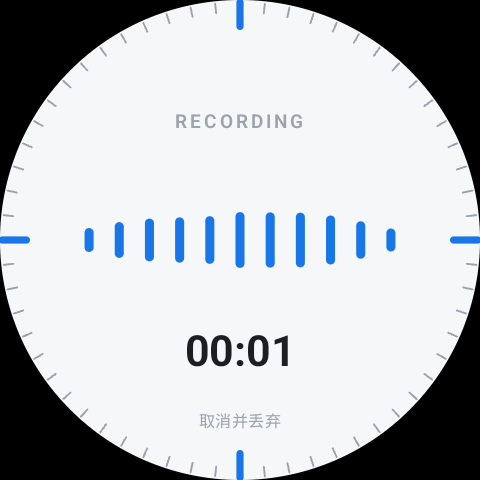
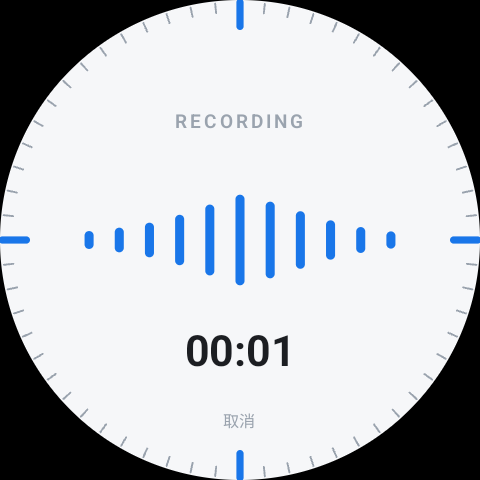
docs(watch): refresh 0.2.0-dev.3-final freeze (settings entry, cancel label, new hash)
UI gained a low-key Settings entry under the mic (first-time config) and the
cancel action is now '取消'. Refresh the freeze: new APK SHA-256
D90B56957BAE546DA94520E0343BF97B349890AD8E36F58258343AAF47535DC6 and the
regenerated ready.png / recording.png.

diff --git a/design/watch-ui/0.2.0-dev.3-final/README.md b/design/watch-ui/0.2.0-dev.3-final/README.md
@@ -7,12 +7,13 @@
 
 - 版本：`0.2.0-dev.3-final`（versionCode 3）
 - 提交基线：
-  - `41a79d4` wip(watch): preserve white dial UI experiment
+  - `714ac2f` feat(watch): restore low-key Settings entry + shorten Cancel label
   - `d874395` test: harden watch transport status and startup order
-- 构建时间：`2026-08-31 16:35:42`
+  - `41a79d4` wip(watch): preserve white dial UI experiment
+- 构建时间：`2026-08-31 22:43:15`
 - APK：`watch/app/build/outputs/apk/debug/app-debug.apk`
 - **APK SHA-256**：
[2 lines of base64/hex data omitted]
 
 ## 冻结的候选特性
 
@@ -20,8 +21,8 @@
   - 白色表盘底 `#F7F8FA`；60 根**灰色分钟刻度**（`#9AA3AE`，贴近表圈，长度为蓝色主刻度一半）；
   - 12/3/6/9 四个**蓝色主刻度**（更长更粗，`#1976E9`）；
   - 标题 `MIC READY` / `RECORDING`：灰色 `#9AA3AE`、小字号（9sp）、置于圆心上方；
-  - Ready：**线性麦克风**（深灰 72dp，居中）；
-  - Recording：**对称 11 根细蓝波形** + 计时（20sp）；
+  - Ready：**线性麦克风**（深灰 72dp，居中），麦克风下方一个**低调 8sp 灰色「设置」入口**（首次配置进 Config 用）；
+  - Recording：**对称 11 根细蓝波形** + 计时（20sp），底部动作文案为「**取消**」；
   - **无 Wi-Fi / 电池图标**，无按钮/状态栏/多余元素。
 
 ## 本轮修复（已并入基线）
